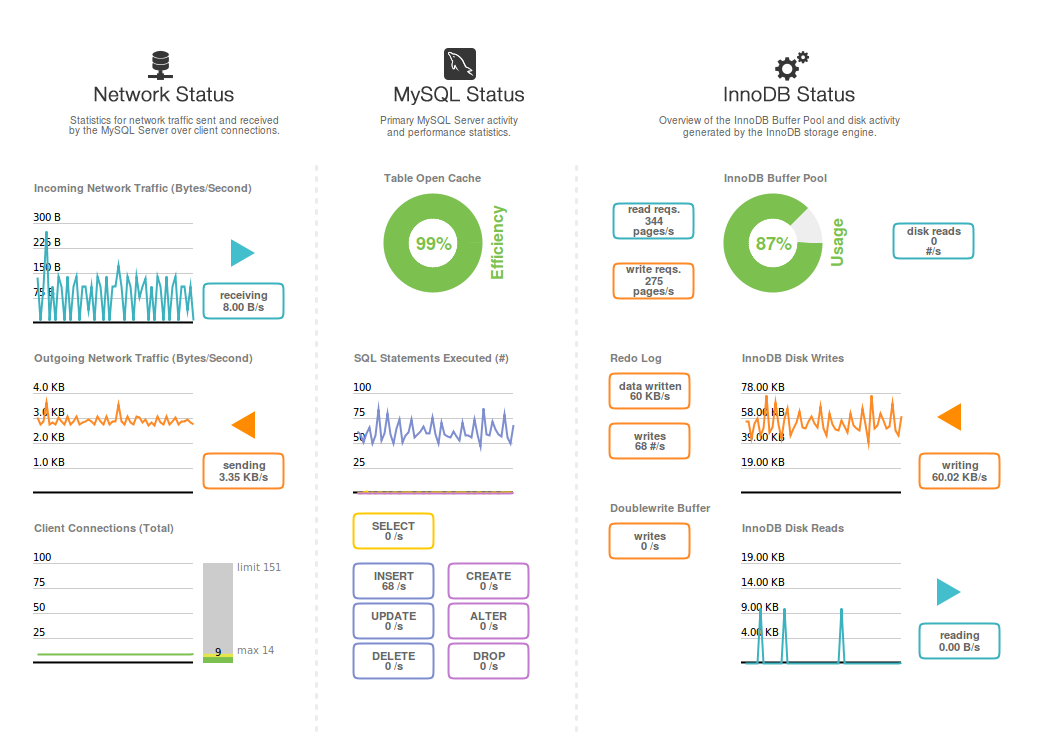
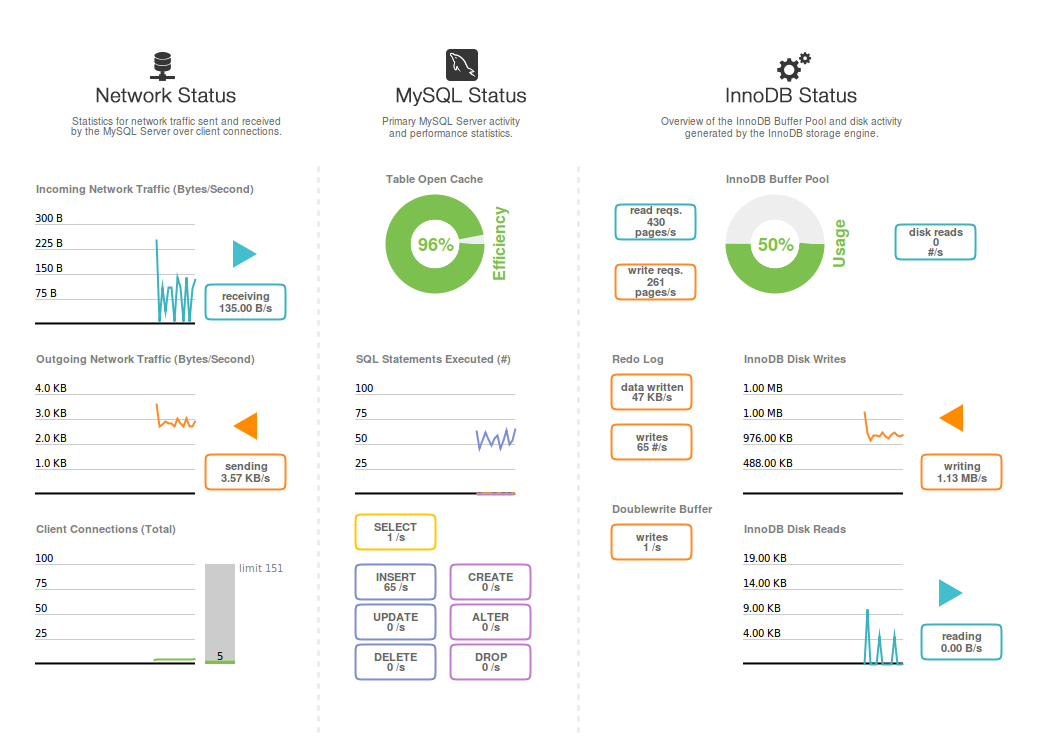
updated post

diff --git a/hexo/source/_posts/MySQL-load-testing.md b/hexo/source/_posts/MySQL-load-testing.md
@@ -25,6 +25,8 @@ Memory: 256G
 Disk: 1.8T HDD
 ```
 
+This server sits in the same network with my machine, which is the MySQL client that sends out the insertion commands.
+
 Now run MySQL server using Docker:
 ```bash
 docker run -d -p 3306:3306 --name mysql-testing --restart=always \
@@ -43,18 +45,19 @@ The following scripts create the DB and the tables:
 CREATE DATABASE `load_test_db` DEFAULT CHARACTER SET latin1 COLLATE latin1_general_ci;
 
 CREATE TABLE `load_test_db`.`event` (
-  `id` CHAR(36) NOT NULL,
+  `id` INT(11) NOT NULL,
   `name` VARCHAR(45) NOT NULL,
   PRIMARY KEY (`id`));
 
 CREATE TABLE `load_test_db`.`sitting_table` (
-  `id` char(36) NOT NULL,
-  `event_id` char(36) NOT NULL,
+  `id` INT(11) NOT NULL,
+  `event_id` INT(11) NOT NULL,
   `name` varchar(45)NOT NULL,
   PRIMARY KEY (`id`));
 
 CREATE TABLE `load_test_db`.`registrant` (
-  `id` INT NOT NULL AUTO_INCREMENT,
+  `id` INT NOT NULL,
+  `sitting_table_id` INT(11) NOT NULL,
   `name` VARCHAR(45) NOT NULL,
   `features` BLOB NULL,
   PRIMARY KEY (`id`));
@@ -74,7 +77,7 @@ declare v_counter int unsigned default 0;
 
   truncate table event;
   while v_counter < v_max do
-    insert `event`(id, name) values (uuid(), random_bytes(45));
+    insert `event`(id, name) values (v_counter, "xxxxxxxxxxxxxxxxxxxx");
     set v_counter=v_counter+1;
   end while;
 end #
@@ -83,14 +86,14 @@ delimiter ;
 call insert_events();
 ```
 > Please note that if you are using MySQL WorkBench to run the script, you need to set the following to a large number in order not to have a timeout:
-Edit->Preferences->SQL Editor->DBMS connection read time out (in seconds)
+Edit -> Preferences -> SQL Editor -> DBMS connection read time out (in seconds)
 I set it to 10800 (3 hours).
 
 During the test you will find it's extremely slow:
 
 ![inserting speed with one to one approach](inserting_speed_1.png)
 
-The average inserting speed is at ~70/s. So to insert 5 million records, we'll need 1190 minutes = 19 hours.
+The average inserting speed is at ~70 inserts/s. So to insert 5 million records, we'll need 1190 minutes = 19 hours.
 
 This is not acceptable, so let's stop it and do some optimizations to it.
 
@@ -106,7 +109,7 @@ declare v_counter int unsigned default 0;
   truncate table event;
   start transaction;
   while v_counter < v_max do
-    insert `event`(id, name) values (uuid(), random_bytes(45));
+    insert `event`(id, name) values (v_counter, "xxxxxxxxxxxxxxxxxxxx");
     -- we make a commit for every 500 inserts
     if v_counter % 500 = 0 then
 		commit;
@@ -124,7 +127,7 @@ What we did above is to use transactions to do bulk insert, we commit for every 
 
 ![inserting speed with bulk insertion](inserting_speed_2.png)
 
-We can see that now we are writing ~1MB/s to disk compared to previously 60KB/s, the speed goes up about ~20 times. We now only need <1 hour for inserting 5 million records.
+We can see that now we are doing ~15000 inserts/s compared previously ~70 inerts/s, The speed goes up about ~200 times. We now only need ~356 seconds for inserting 5 million records.
 
 #### Improving the inserting event more.
 Actually we can tweak the server parameters to improve the inserting speed even more. Let's restart the MySQL server and this time set the following parameters:
@@ -160,31 +163,63 @@ Now let's run again and see the result:
 
 ![inserting speed with bulk insertion and server configured](inserting_speed_3.png)
 
-I was actually able to insert the 5 million records into DB in 145 seconds. The speed is at ~35000 inserts/s.
+The speed now goes up to 70000 inserts/s, which is 4.5 times faster than the previous database settings. The insertion takes about 70s to finish.
 
 #### A final push.
 If you notice that in our procedure to insert, we are not actually using the real **bulk insert** that MySQL supports, which is:
 ```sql
-insert `event`(id, name) values
-    (uuid(), random_bytes(45)),
-    (uuid(), random_bytes(45)),
-    (uuid(), random_bytes(45)),
-    ...    
-    (uuid(), random_bytes(45)),
-    (uuid(), random_bytes(45)),
-    (uuid(), random_bytes(45));
+drop procedure insert_events;
+delimiter #
+create procedure insert_events()
+begin
+declare v_max int unsigned default 5000000;
+declare v_counter int unsigned default 0;
+declare v_global_counter int unsigned default 0;
+
+  truncate table event;
+  start transaction;
+  while v_counter < v_max/40 do
+    insert `event`(id, name) values
+    (v_global_counter+1, 'xxxxxxxxxxxxxxxxxxxx'),
+    (v_global_counter+2, 'xxxxxxxxxxxxxxxxxxxx'),
+    (v_global_counter+3, 'xxxxxxxxxxxxxxxxxxxx'),
+    (v_global_counter+4, 'xxxxxxxxxxxxxxxxxxxx'),
+    .....
+    (v_global_counter+40, 'xxxxxxxxxxxxxxxxxxxx');
+    set v_global_counter = v_global_counter + 40;
+    -- we make a commit for every 25 bulk inserts
+    if v_counter % 25 = 0 then
+		commit;
+        start transaction;
+	end if;
+    set v_counter=v_counter+1;
+  end while;
+  commit;
+end #
+
+delimiter ;
+SET FOREIGN_KEY_CHECKS = 0;
+SET UNIQUE_CHECKS = 0;
+SET AUTOCOMMIT = 0;
+call insert_events();
+SET UNIQUE_CHECKS = 1;
+SET FOREIGN_KEY_CHECKS = 1;
+select count(1) from event;
 ```
 If we change it to this way, the speed will be even higher:
 
 ![inserting speed with real bulk insertion and server configured](inserting_speed_4.png)
 
-I completed the insertion of 5 million records in 85 seconds, which yells a ~70000 inserts/s. I think this is pretty much what we can do, to further improve the performance, we will need to use a SSD instead of HDD. Once having the chance I'll do the test.
+The speed now is at ~190000 inerts/s, inserting 5 million records only takes ~26 seconds. I think this is pretty much what we can do, to further improve the performance, we will need to use a SSD instead of HDD. Once having the chance I'll do the test.
+
+> One thing that bothers me still is, the cap at writing speed to disk is at about **25MB/s**, which does not reach the capacity of the HDD too. It seems that MySQL's design inherently limit the writing speed to a certain extent. I am not quite sure and I hope someone can answer my question.
 
 ### Inserting 15 million records into sitting_table table.
 We already know the insertion performance and how to optimize in the previous section. There are two things that I am interested in:
 1. How fast is insert ... select from ...
 2. How big is the difference between with/without foreign key constraint during insertion.
 3. Is the speed consistent, in other words, does the time required for insertions increase linearly when the total number of records to insert increase.
+4. How much time does it take to add an index to a table that contains multi-million records.
 
 #### Inserting using select from.
 ```sql
@@ -193,7 +228,7 @@ delimiter #
 create procedure insert_sitting_tables()
 begin
   truncate table sitting_table;
-  insert into sitting_table(id, event_id, name) select uuid(), id as event_id, random_bytes(45) as name from event;
+  insert into sitting_table(id, event_id, name) select id, id as event_id, 'xxxxxxxxxxxxxxxxxxxx' as name from event;
 end #
 
 delimiter ;
@@ -201,16 +236,17 @@ call insert_sitting_tables();
 
 select count(1) from sitting_table;
 ```
-This gives up about ~48000 inserts/s, it's quite good performance, which answers question 1 in a way. Now to answer question 3, let's insert 3 tables per event instead of one:
+This gives us about ~170000 inserts/s, it's quite good performance, which answers question 1 in a way. Now to answer question 3, let's insert 3 tables per event instead of one:
 ```sql
 begin
   truncate table sitting_table;
-  insert into sitting_table(id, event_id, name) select uuid(), id as event_id, random_bytes(45) as name from event;
-  insert into sitting_table(id, event_id, name) select uuid(), id as event_id, random_bytes(45) as name from event;
-  insert into sitting_table(id, event_id, name) select uuid(), id as event_id, random_bytes(45) as name from event;
+  insert into sitting_table(id, event_id, name) select id, id as event_id, 'xxxxxxxxxxxxxxxxxxxx' as name from event;
+  insert into sitting_table(id, event_id, name) select id, id as event_id, 'xxxxxxxxxxxxxxxxxxxx' as name from event;
+  insert into sitting_table(id, event_id, name) select id, id as event_id, 'xxxxxxxxxxxxxxxxxxxx' as name from event;
 end #
 ```
-The result yells to the same ~48000 inserts/s, which indicates that the time needed to insert is quite linear as the number of records to insert increases.
+The result yells to the same ~170000 inserts/s, which indicates that the time needed to insert is quite linear as the number of records to insert increases.
+In total, it took 88 seconds to finish.
 
 #### Inserting with/without indexes and foreign key checks.
 To compare, let's now add index and foreign key constraint for the sitting_table, as it has a one-to-many relationship with event table.
@@ -224,3 +260,99 @@ ADD CONSTRAINT `fk_sitting_table_event_id`
   ON DELETE NO ACTION
   ON UPDATE NO ACTION;
 ```
+Since we already have 15 million records in sitting_table, adding an index should take a great deal of time, which is exactly what we want to find out, for question 4. The result shows the following:
+- 27 seconds to apply the index for column `event_id`;
+- 129 seconds to create the foreign key constraint;
+
+This suggests that adding index and constraint to a heavy table is a very expensive operation and we should be careful about it, in my opinion this kind of operation should only be carried out when the database is not serving any production requests (during maintenance).
+
+Now let's truncate the table and re-do the insertion.
+```sql
+call insert_sitting_tables();
+```
+It takes 508s to do the insertion compared to 103s when index and constraint do not exist. Now let's do some maths:
+- When I did insertions first then add index and constraint, it used 85 + 27 + 129 = 261s.
+- When I introduce the index and constraint first and do insertions, it used 134s.
+
+This is quite surprising to me:
+1. Adding constraint takes so much time.
+2. When the primary key and indexes are simple and sorted well, inserting them in is quite fast.
+3. Looks like having index and constraint first and then insert is not that bad if index column is sorted, only ~5 times slower.
+
+The above conclusion answers the question 4 I mentioned in the beginning of this section.
+
+### Inserting 30 million records into registrant table.
+
+Firstly let's create the procedure to insert. We will insert 1 registrant per table first and see how fast it runs. Since for each registrant, we will store his/her face features, which is a 1024 bytes blob.
+```sql
+drop procedure insert_registrant;
+delimiter #
+create procedure insert_registrant()
+begin
+declare feats varbinary(1024);
+  truncate table registrant;
+  set feats = random_bytes(1024);
+  insert into registrant(id, sitting_table_id, name, features) select id, id as sitting_table_id, 'xxxxxxxxxxxxxxxxxxxx' as name, feats as features from sitting_table;
+end #
+
+delimiter ;
+call insert_registrant();
+
+select count(1) from registrant;
+```
+
+Now we can see that it's quite slow, inserting 15 million rows of registrant took 950 seconds, which is 16 minutes. The speed is reduced by more than 10 times, compared to inserting to a table that does not contain large column with the same amount of rows. On a separate note, I also tried to change the features column to a varbinary(1024) instead of blob, because varbinary is stored inline with the row but blob is not. However the speed is not affected at all.
+
+![inserting speed with select ... from ... and large column](inserting_speed_5.png)
+
+> Now the actual writing speed goes up to **35MB/s**, compared to **25MB/s** previously writing small tables. However since each row to write now is so significantly larger than previously, the overall inerts/s still reduce like crazy.
+
+After the benchmarking, and assuming that the speed is linear, we can now insert 30 million rows. It will take ~30 minutes if our theory is correct. So take a cup of coffee or go eat something while letting it run.
+
+### Query from a multi-million rows table with/without index.
+Now we have a database with 3 tables in place.
+- event: 5 million records.
+- sitting_table: 15 million records.
+- registrant: 30 million records.
+Since all the bulk insertion is finished, let's now restart the server with default settings and do some experiments on performing various CURD operations.
+Let's do some query now to see how it much time it takes when you have index or not have index. Let's use the registrant table.
+```sql
+select * from registrant where sitting_table_id = 5;
+```
+It turned out to take 44 seconds to get the result, since no index is on sitting_table_id thus it required a full table scan. Now let's add index for sitting_table_id and try again.
+```sql
+ALTER TABLE `load_test_db`.`registrant`
+ADD INDEX `idx_sitting_table_id` (`sitting_table_id` ASC);
+```
+This alone took about 123 seconds to complete, now let's query again.
+```sql
+select * from registrant where sitting_table_id = 5;
+```
+It only took 1.8 milliseconds to get the result.
+
+We can conclude that, at the scale of multi-million rows, query something using a column that does not have index on it is not acceptable, but with index, it's still very fast.
+
+### Insert/Update/Delete operations on a multi-million rows table.
+Let's see how fast it is to insert a row into the registrant table.
+```sql
+insert into registrant (id, sitting_table_id, name, features) values (30000001, 1, "test name", random_bytes(1024));
+```
+It took about 30 ms to run, which is still acceptable.
+```sql
+update registrant set name = "test name 1" where id = 30000001;
+```
+It took about 28 ms to finish, which is similar to insertion.
+```sql
+delete from registrant where id = 30000001;
+```
+It took about 28 ms to finish, which is similar to insertion as well.
+
+### Conclusion
+After running the above tests, we can come up with the following take-aways:
+1. To achieve massive insertion speed, we need to configure the database settings to trade-off consistency, crash resistence for speed.
+2. To achieve massive insertion speed, we can't do insert record by record, we need to bulk insert.
+3. A big table (contains big columns) take much more time to insert, compared to smaller table (no big columns), even though the writing speed can be pushed higher.
+4. Adding index is roughly at about 540000 rows/s, for integer index type, tested on a 30 million rows table.
+5. Adding foreign constraint is a more expensive operation than adding index.
+6. Query using index yells a very good speed against multi-million rows table, at <2 ms. However, without index the speed is not acceptable as it scan through the whole table.
+7. Inserting/Updating/Deleting operation on a table contains multi-million rows is significantly slower (10 times) than select operations with index against it. But the speed is still acceptable.
